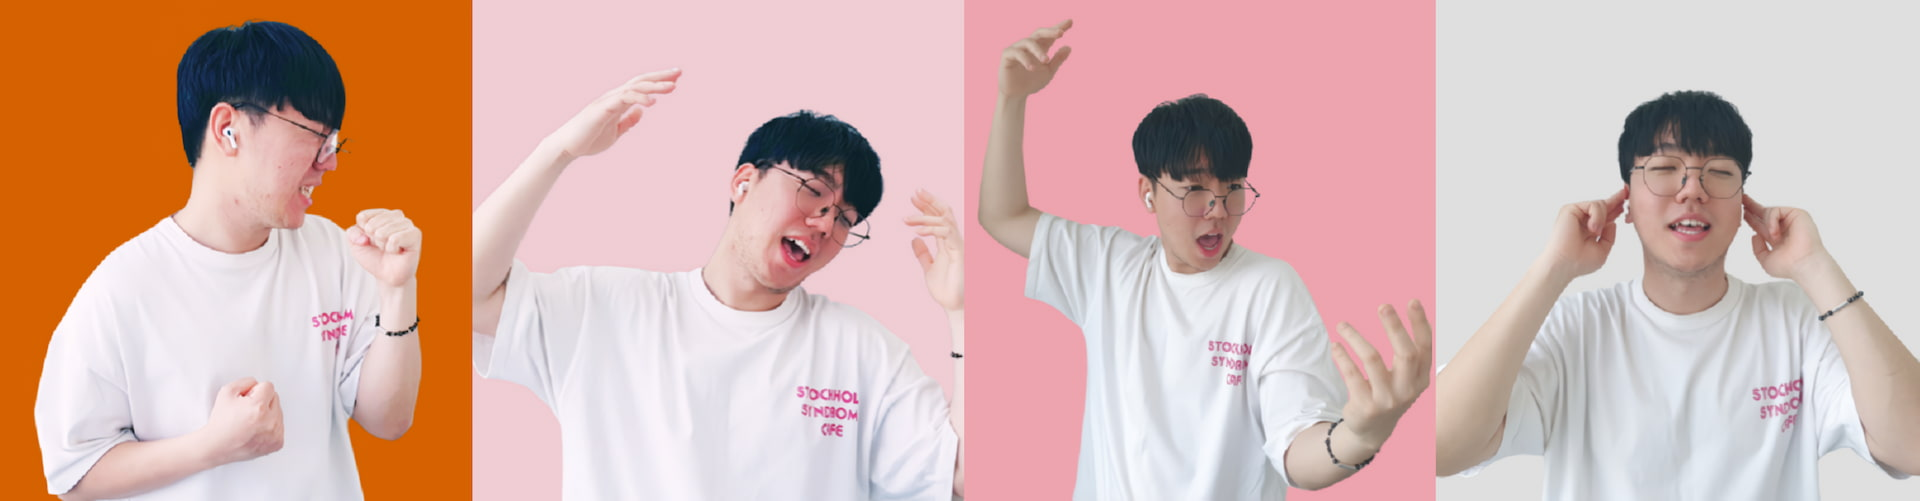
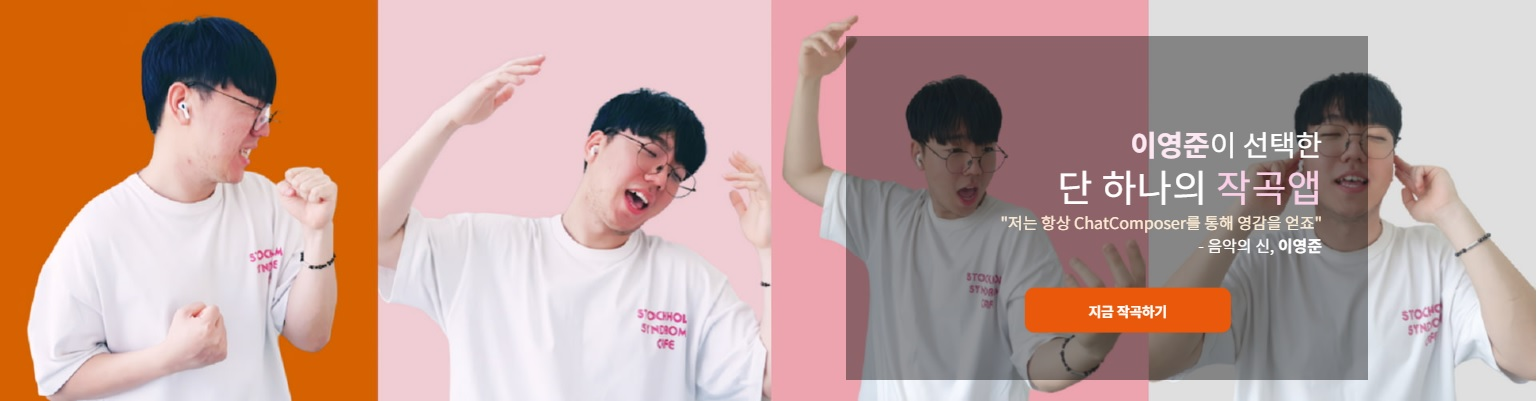
[fix] 배너 이미지 교체, 좋아요순 정렬

Changed region(s): [[0.5309, 0.0898, 0.9369, 0.9576], [0.9993, 0.0, 1.0, 1.0]]

diff --git a/frontend/components/dashboard/library/index.tsx b/frontend/components/dashboard/library/index.tsx
@@ -18,7 +18,8 @@ function Library() {
     <div className="mp_library relative w-full h-full">
       {/* <LibraryUpper /> */}
       <div className="h-[20px] w-full"></div>
-      <div className="relative w-full mx-auto border rounded-lg mt-5 py-1 text-center">
+      {/* <div className="relative w-full mx-auto border mt-5 py-1 text-center"> */}
+      <div className="relative w-full mx-auto border rounded-lg mt-5 p-1 text-center">
         <Link
           href={"/produce"}
           className="bg-black absolute rounded top-0 left-0 w-full h-full z-[6] opacity-0 hover:opacity-60"
@@ -29,11 +30,11 @@ function Library() {
             strokeWidth={2}
             color={"#ffffff"}
           />
-          <div className="text-pink-100 absolute text-2xl z-[4] w-[150px] top-[57%] left-1/2 translate-x-[-50%] translate-y-[-50%]">
+          <div className="text-pink-100 absolute text-2xl z-[4] w-[150px] top-[60%] left-1/2 translate-x-[-50%] translate-y-[-50%]">
             클릭하여 이동
           </div>
         </Link>
-        <div className="text-white absolute text-4xl top-[4vh] md:right-[2vw] xl:right-[9vw] bg-black/40 text-right p-5 hidden xl:block pb-[8%] pl-[10%] pt-[6%] pr-[3%]">
+        {/* <div className="text-white absolute text-4xl top-[4vh] md:right-[2vw] xl:right-[9vw] bg-black/40 text-right p-5 hidden xl:block pb-[8%] pl-[10%] pt-[6%] pr-[3%]">
           <b className="text-pink-100">이영준</b>이 선택한
           <div className="text-5xl mt-2">
             단 하나의 <span className="text-pink-200">작곡앱</span>
@@ -48,8 +49,9 @@ function Library() {
         </div>
         <h3 className="libray_h3 text-4xl font-bold text-[17px] mb-[15px] ml-6 absolute top-3/4 left-1/2 lg:top-[77%] lg:left-[72%] translate-x-[-50%] translate-y-[-50%] bg-orange-600 text-white px-20 py-2 rounded-xl shadow-sm">
           지금 작곡하기
-        </h3>
+        </h3> */}
         {/* <img src="banner.png" className="max-w-sm mx-auto" /> */}
+        {/* <img src="main-banner.jpg" className="mx-auto" /> */}
         <img src="main-banner.jpg" className="mx-auto rounded-lg" />
       </div>
       <Albums />

diff --git a/frontend/components/dashboard/library/trending/index.tsx b/frontend/components/dashboard/library/trending/index.tsx
@@ -29,15 +29,17 @@ function Trending({ genre = null }: { genre?: GenreType }) {
       <div className="library_trending custom_scrollbar w-full mx-auto h-[300px] overflow-y-scroll scroll-smooth px-5 py-0 bg-pink-50/30 border-pink-500/60 border rounded-2xl">
         <table className="library_trending_table w-full text-[rgb(122, 122, 122)] border-collapse">
           <tbody>
-            {musics?.map((song, index) => {
-              return (
-                <TrendingSong
-                  key={`trending_song_${song.music_id}`}
-                  index={index}
-                  song={song}
-                />
-              );
-            })}
+            {musics
+              ?.sort((a, b) => b.favorite_count - a.favorite_count)
+              .map((song, index) => {
+                return (
+                  <TrendingSong
+                    key={`trending_song_${song.music_id}`}
+                    index={index}
+                    song={song}
+                  />
+                );
+              })}
           </tbody>
         </table>
       </div>
